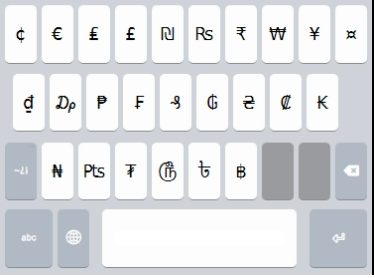
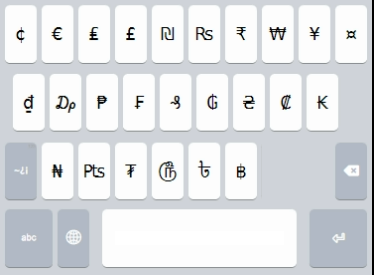
[sil_euro_latin] -  Convert blank keys on currency layer to spacers

Changed region(s): [[0.6747, 0.4892, 0.88, 0.7482]]

diff --git a/release/sil/sil_euro_latin/source/welcome/welcome.htm b/release/sil/sil_euro_latin/source/welcome/welcome.htm
@@ -113,8 +113,10 @@
             <h3>Default</h3>
             <img src="touch-default.png">
 
+            <p>
             Variants of each letter may be found via longpress, while the letter in the top-right may be
             typed by touching the key and then dragging down.
+            </p>
 
             <h3>Shift</h3>
             <img src="touch-shift.png">
@@ -122,12 +124,14 @@
             <h3>Numeric</h3>
             <img src="touch-numeric.png">
 
+            <p>
             Each key matches its position on the default layer.  The second and third row's keys each
             offer a different key that may be typed using the same touch-and-drag technique as
             described for the default layer.  Curly brackets are available via longpress on the
-            ( and ) keys.
-
+            "(" and ")" keys.
+            <br/>
             Note that the keys have changed position compared to 2.x versions of the keyboard.
+            </p>
 
             <h3>Symbol</h3>
             <img src="touch-symbol.png">

diff --git a/release/sil/sil_euro_latin/source/help/sil_euro_latin.php b/release/sil/sil_euro_latin/source/help/sil_euro_latin.php
@@ -35,8 +35,16 @@
 <img src="prefix.png" />
 
     <h2>Mobile Keyboard Layout</h2>
-<p>Due to the size and number of keys, some characters are hidden in the long press. 
-	Press and hold on the key with a little dot on the top right to reveal and use them.</p>
+    <p>
+    Variants of each letter may be found via longpress, while the letter in the top-right may be
+    typed by touching the key and then dragging down.
+    <br />
+    On the numeric layer, each key matches its position on the default layer. 
+    The second and third row's keys each offer a different key that may be typed using the same
+    touch-and-drag technique as described for the default layer. Curly brackets are available via longpress on the <kbd>(</kbd> and <kbd>)</kbd> keys.
+    <br />
+    Note that the keys have changed position compared to 2.x versions of the keyboard.
+    </p>
 
     <div id='osk-phone' data-states='default shift numeric symbol currency'></div>
 

diff --git a/release/sil/sil_euro_latin/HISTORY.md b/release/sil/sil_euro_latin/HISTORY.md
@@ -1,7 +1,9 @@
 # EuroLatin (SIL) Keyboard Change History
 
+## 3.0.2 (12 Apr 2024)
+* Change blank keys on currency layer to spacers
 ## 3.0.1 (12 Mar 2024)
-** Fixed key-caps for right-parentheses subkeys
+* Fixed key-caps for right-parentheses subkeys
 ## 3.0.0 (4 Mar 2024)
 * Added support for flick-down gestures on touch devices with Keyman 17.0
 * Rearranged the numeric/symbol layer on touch devices to make it consistent with the flick-down layout and moved less-used letters to longpress and/or flick gestures.
